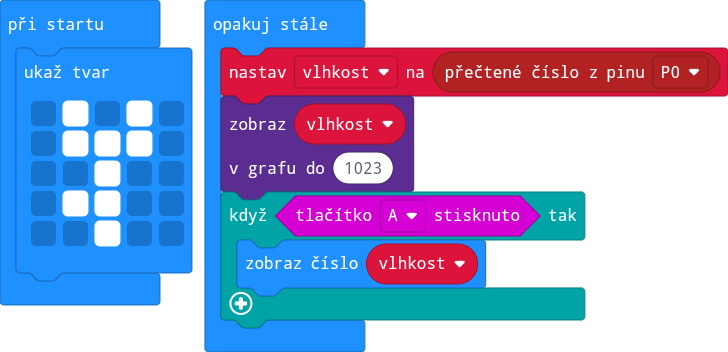
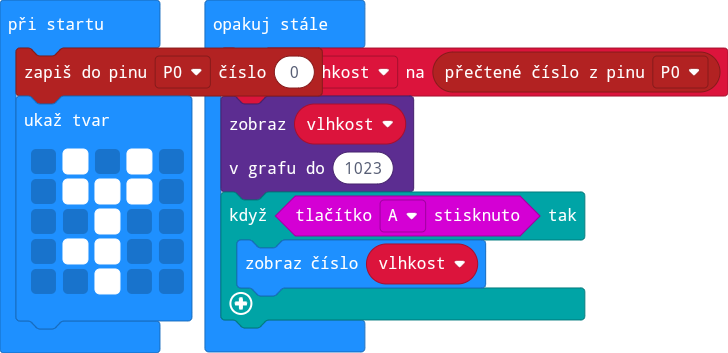
Aktualizovat main.blocks, main.ts

diff --git a/main.ts b/main.ts
@@ -1,4 +1,5 @@
 let vlhkost = 0
+pins.analogWritePin(AnalogPin.P0, 0)
 basic.showLeds(`
     . # . # .
     . # # # .
